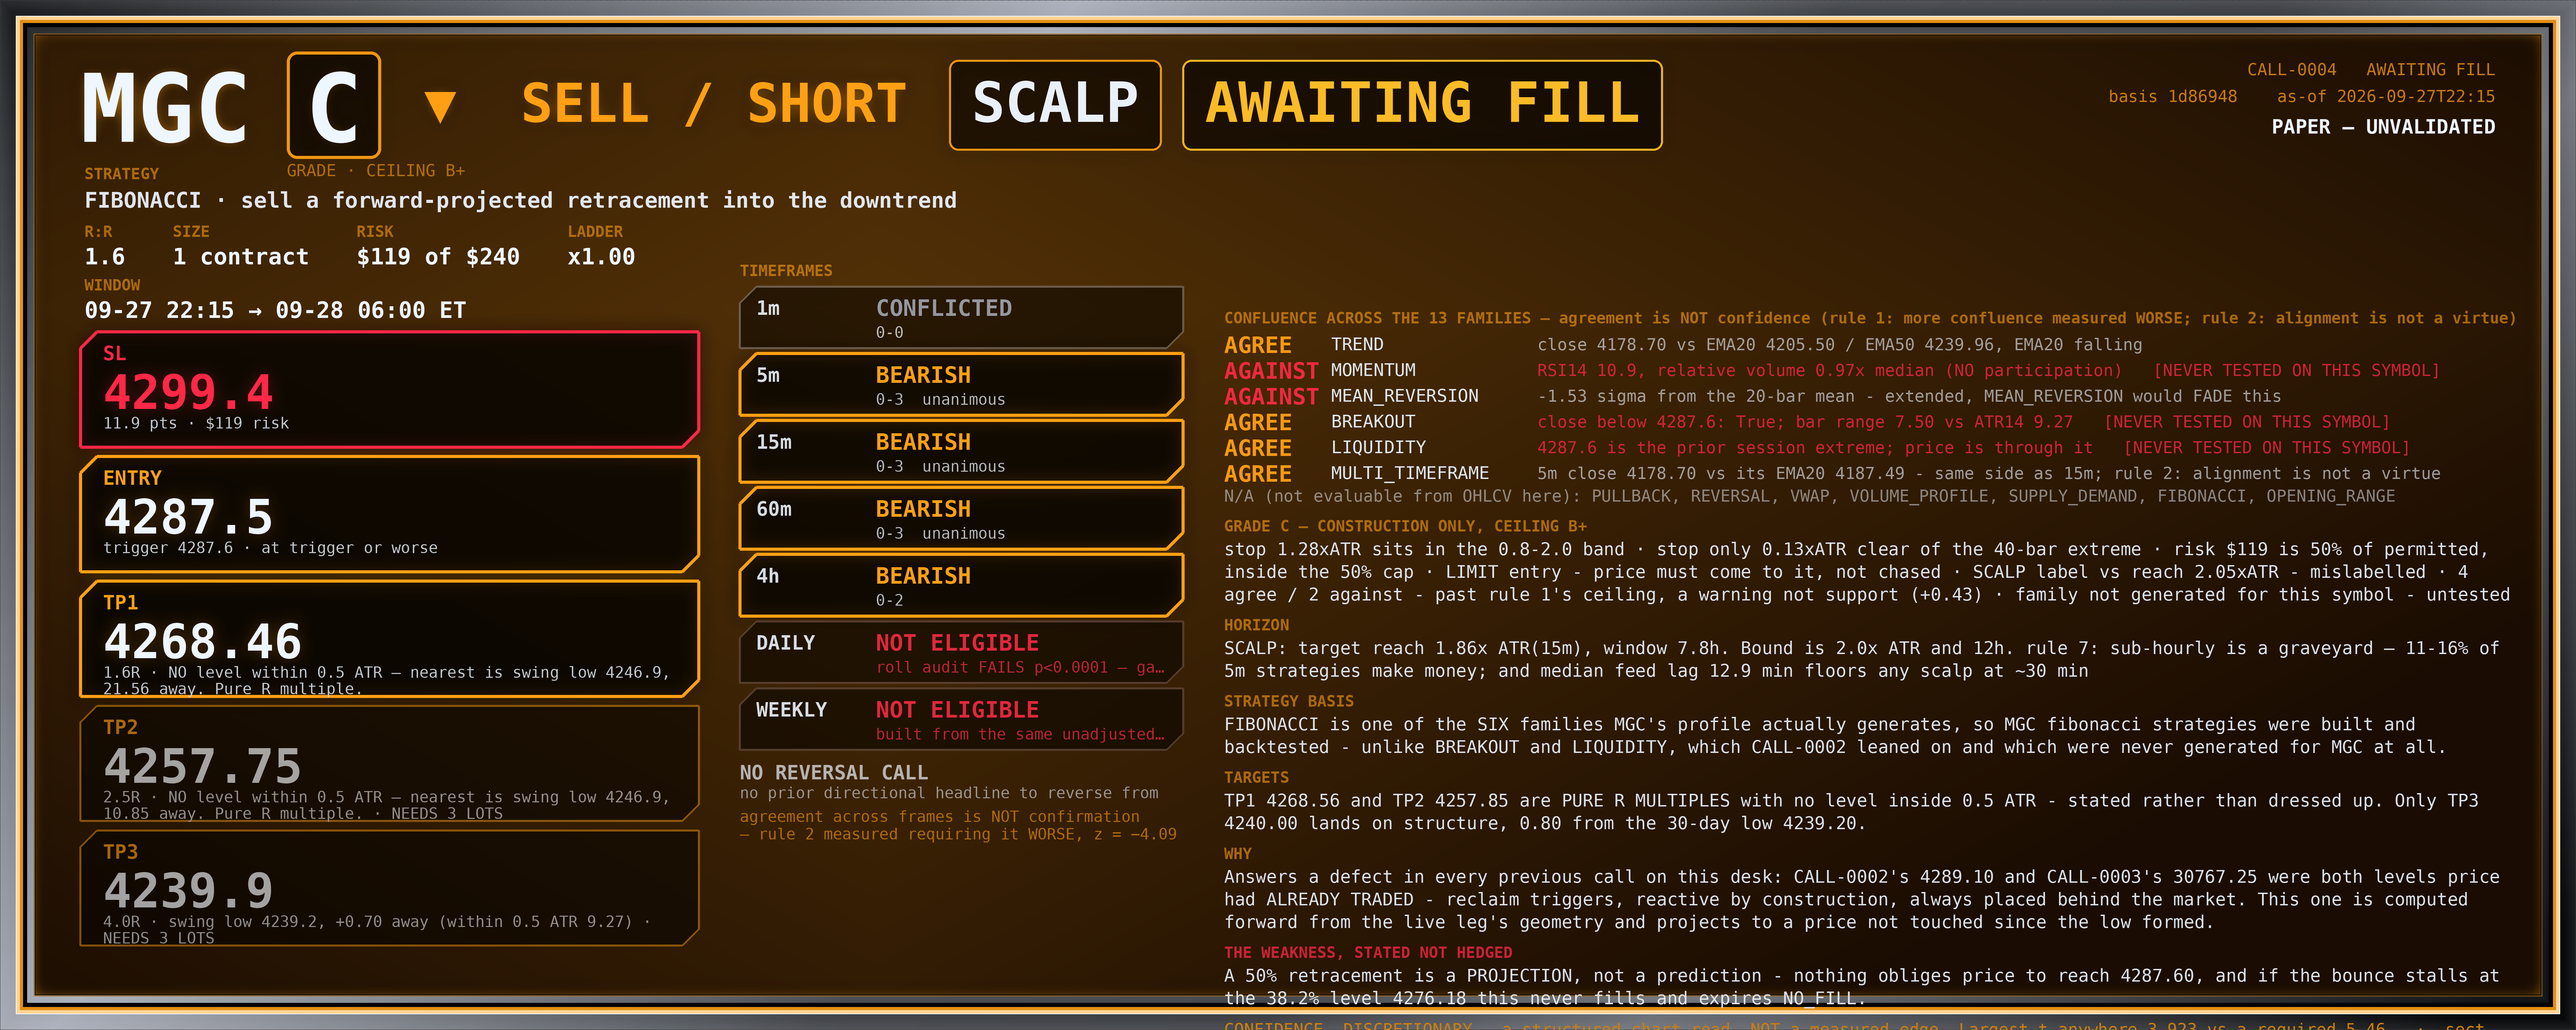
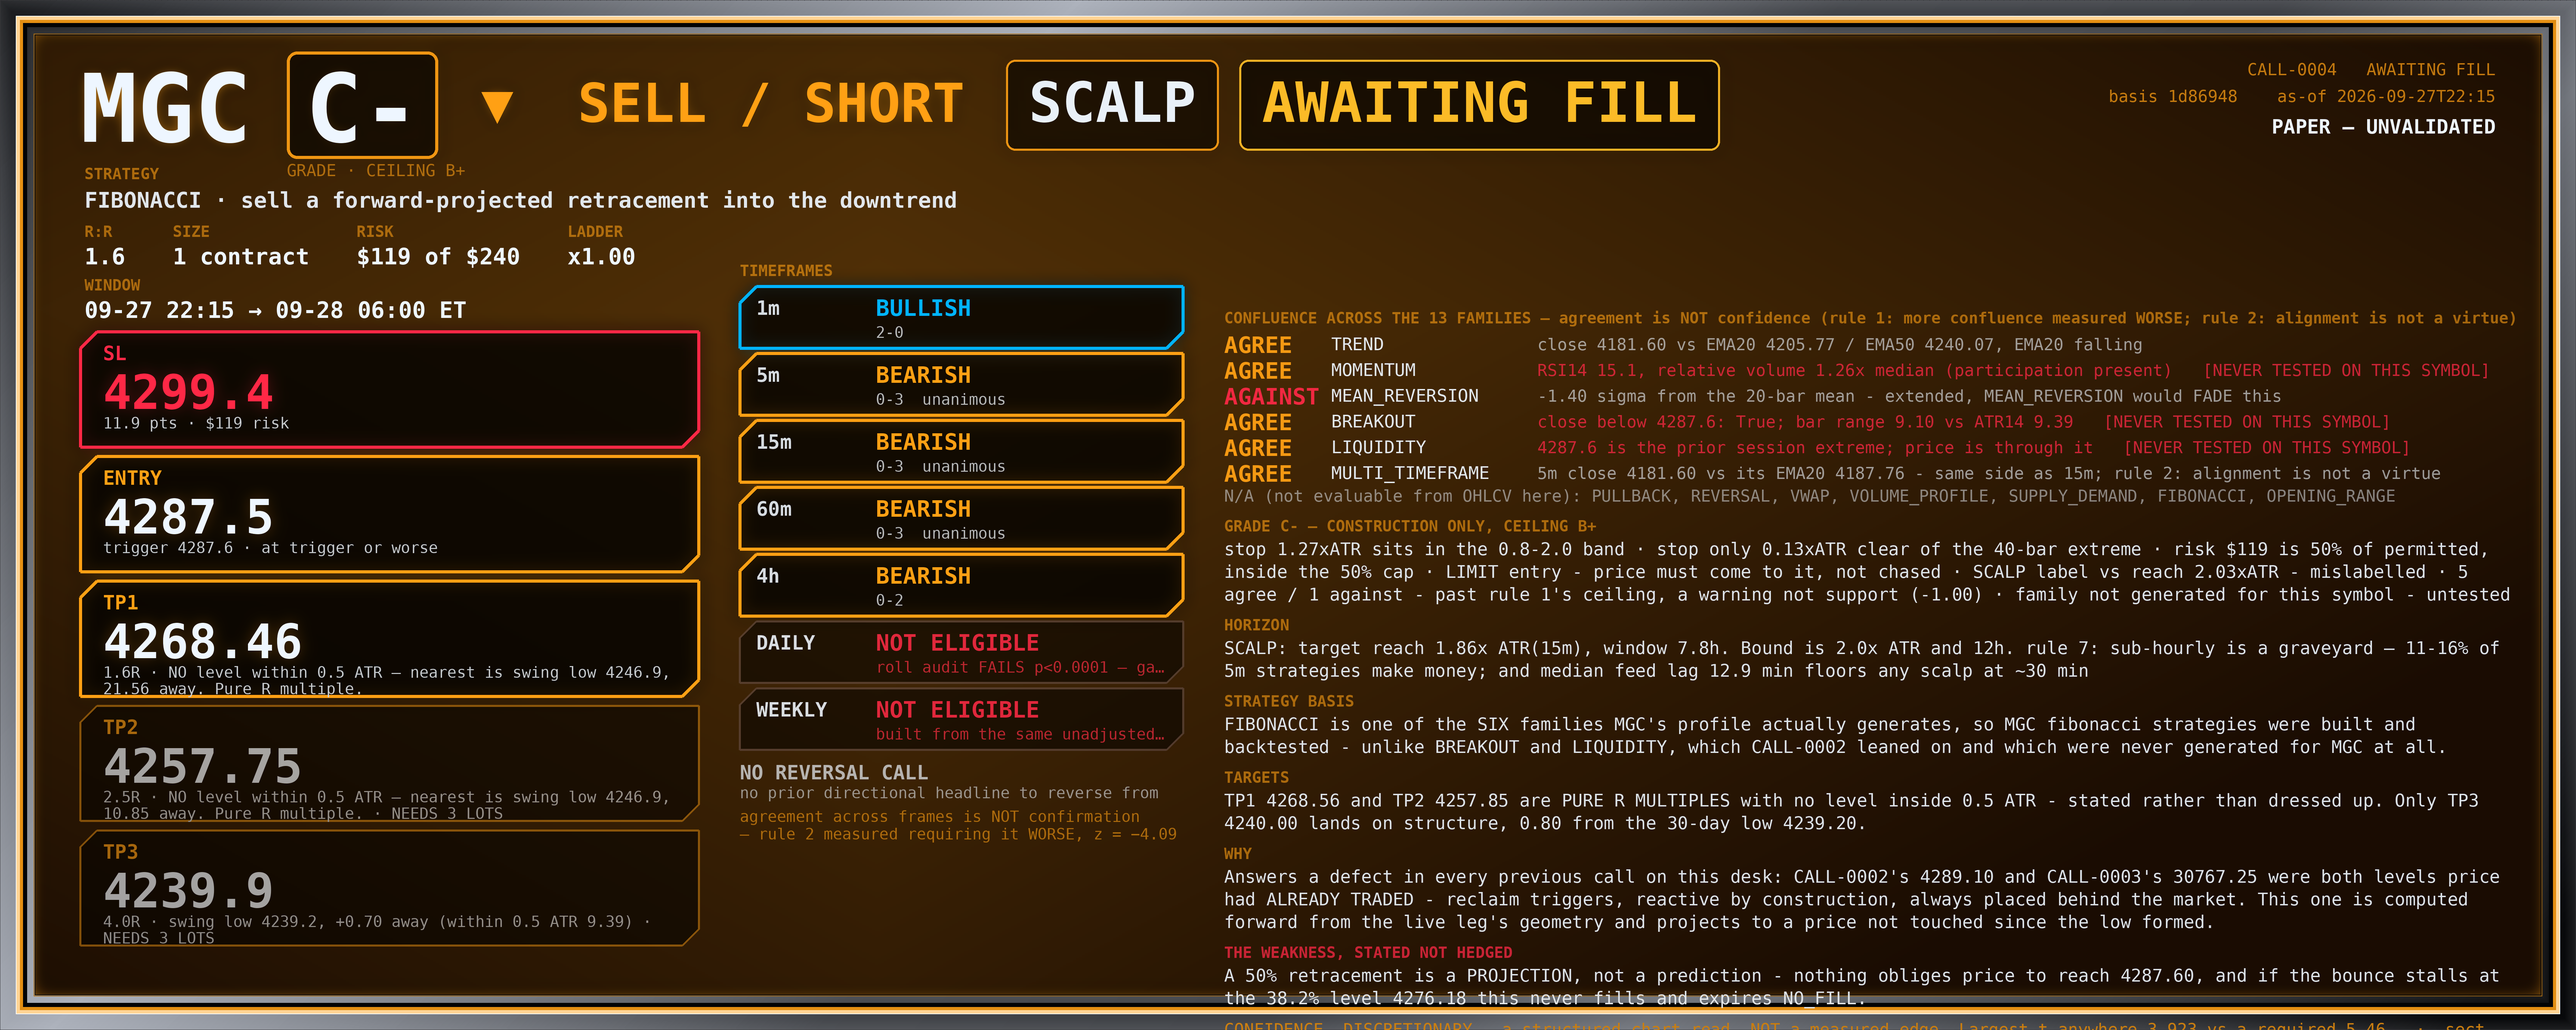
CALL desk: N57 - the seven-frame table mixes frames 10 minutes to 3.2 DAYS stale
Did N32's deferred per-frame lag measurement on this full check. From
feed_lag.jsonl at 08:54:27Z, identical on both symbols: 1m 10m behind, 5m 14m,
15m 24m, 60m 114m (newest bar 03:00), 4h 294m, daily 4614m - the daily frame's
newest bar is 2026-09-25, three days before the tape.

So the "daily BULL 3-0 unanimous" row I printed roughly a dozen times tonight is
a Friday-close read, and "60m BEAR 0-3 unanimous", which I leaned on all night as
the settled trustworthy frame, does not contain the last two hours - the entire
window in which MGC fell from 4188.90 to 4174.30.

CALLOUT.md warns about exactly this twice and I read both tonight. I honoured it
for the 5m close and violated it for four of seven rows in the same table,
because fetch.py returns six frames in one call and I treated one call as one
moment.

No conclusion flips - N44/N51/N52/N56 rested on the 15m range, rule 2 and
pre-registration integrity, none of which used those rows. But N56's "both
symbols aligned bearish on every intraday frame" was partly built on a 60m row
that had not seen the relevant bars; it should have read "on 1m, 5m and 15m, with
60m not yet current."

Fix from now: every frame row carries its lag and a stale row cannot corroborate.
Deferred as code: fetch.py logging per-frame lag to vendor_events (N38), and
regime.py refusing to label a frame whose lag exceeds a multiple of its bar
length instead of printing a confident BULL/BEAR from stale bars.
[…]

diff --git a/workspace/paper/CALL/NOTES.md b/workspace/paper/CALL/NOTES.md
@@ -2893,3 +2893,104 @@ all night.
 No new call. MNQ at the exact low is the most extended point of the entire move and is the single
 worst place to sell it; the MGC retracement idea remains blocked by N52 until CALL-0004 resolves on
 the 06:00 ET bar. Neither reason has changed in five minutes, and neither should be expected to.
+
+## N57 — THE SEVEN-FRAME TABLE IS NOT SEVEN OBSERVATIONS OF THE SAME MOMENT. Its frames range from 10 minutes stale to 3.2 DAYS stale, and I have shown them side by side all night as if they were parallel
+
+N32 deferred "per-frame lag in the seven-frame table" to a full check. This is that check, and the
+numbers are much worse than the deferral assumed. Read from `feed_lag.jsonl`, latest fetch
+`2026-09-28T08:54:27Z`, identical on both symbols:
+
+| frame | newest real bar | lag |
+|---|---|---|
+| 1m | 04:44 | **10 min** |
+| 5m | 04:40 | **14 min** |
+| 15m | 04:30 | **24 min** |
+| 60m | **03:00** | **114 min** |
+| 4h (240m) | 00:00 | **294 min** |
+| daily (1440m) | **00:00, 2026-09-25** | **4,614 min = 3.2 DAYS** |
+
+So every check tonight, the row I printed as `daily BULL 3-0 unanimous` was computed from a series
+whose newest bar is **Friday 2026-09-25** — before the weekend, three days before the tape I was
+reporting on. And `60m BEAR 0-3 unanimous`, which I have been leaning on all night as "the settled
+frame that has not moved," **does not contain the last two hours** — which is the entire window in
+which MGC fell from 4188.90 to 4174.30. The 60m frame has not yet seen the move I have been
+describing.
+
+CALLOUT.md warns about exactly this in two places and I read both, twice, tonight: *"never state a
+level as current unless you fetched it in this turn"*, and the `as-of` card field, *"the timestamp of
+the newest bar you actually hold."* I honoured those for the 5m close and violated them for four of
+the seven rows in the same table, because `fetch.py` returns all six frames in one call and I treated
+one call as one moment. It is not. `FRAMES` requests 60m over 30 days, 240m over 60, 1440m over 365,
+and the vendor's per-interval behaviour differs; a frame silently ending early is CALLOUT.md's
+documented "empty frame with no error" failure in a partial form.
+
+**This does not flip any conclusion I reached, and I want to be exact about that rather than
+overclaim a retraction.** The declines at N44, N51, N52 and N56 rested on MGC's location inside its
+40-bar 15m range, on rule 2, and on N52's pre-registration argument — none of which used the 60m,
+4h or daily rows. So no call changes. What changes is that a table I have put in front of the owner
+roughly a dozen times was misleading in a way he had no way to detect, and the two rows I described
+as the stable, trustworthy ones (15m and 60m) are not the same kind of object: 15m is 24 minutes
+behind, 60m is nearly two hours behind.
+
+### The fix, and what I am doing about it right now
+
+From this check the seven-frame table **carries each row's lag**, and any row staler than roughly two
+of its own bar lengths is marked. A frame whose newest bar predates the move under discussion cannot
+corroborate a read of that move and must not be counted in any confluence statement — which, note,
+also means the "both symbols aligned bearish on every intraday frame" line from N56 was partly built
+on a 60m row that had not seen the relevant bars. That sentence should have read "on 1m, 5m and 15m,
+with 60m not yet current."
+
+Deferred, because it is a code change and not a reporting change: `fetch.py` should record per-frame
+lag into `vendor_events` (N38's item) and `regime.py` should refuse to emit a frame whose lag exceeds
+a stated multiple of its bar length rather than printing a confident BULL/BEAR label from stale bars.
+Until that exists the discipline is manual, which is exactly how this went unnoticed for six hours.
+
+This is the ninth self-correction tonight, and unlike the others it is not a slip in one sentence —
+it is a defect in the standard artefact this desk produces every five minutes.
+
+## N58 — full-check ledger at 04:54 ET
+
+| quantity | value |
+|---|---|
+| journal entries | 14 |
+| callouts with a resolved outcome | **1** |
+| closed trades | **0** |
+| wins / losses | 0 / 0 |
+| win rate | **undefined — no closed trade** |
+| payoff | **undefined** (rule 3 forbids one without the other; here neither exists) |
+| expectancy in R | **undefined**, n = 0 |
+| the one resolution | CALL-0003, `NO_FILL`, expired untriggered, $0.00, **0.0R** |
+| NO TRADE entries | 5, of which **2** carry `declined_despite_qualifying: true` |
+| equity | **$50,000.00** |
+| peak equity | $50,000.00 |
+| drawdown | **$0.00** |
+| distance to the $2,800 absorbing state | **$2,800.00**, the full width |
+| permitted risk at $0 drawdown | $240, ladder ×1.0, 50% discretionary cap = $120 |
+| ambiguous bars | 0 encountered by resolve.py this session |
+
+Rule 3 compliance, stated rather than assumed: I am not quoting a win rate because there is no
+closed trade to compute one from, and a rate over zero trades would be a number without a payoff to
+sit beside. One plan has resolved all session and it resolved as a non-fill at exactly 0.0R.
+
+Three plans remain PENDING: CALL-0001 (MNQ LONG, direction wrong by 318.25), CALL-0002 (inert,
+defective `created_bar_ts`, never evaluated — N30), CALL-0004 (MGC SHORT, direction right with target
+distance covered, trigger 39.30 away, expiring on the 06:00 ET bar).
+
+Cadence verified by listing rather than by memory, per N45: `CronList` shows `33ba414e` present. No
+`send_later` chain armed, deliberately, so the owner is not double-sent.
+
+## N59 — MGC's 04:40 5m close was revised +2.90 with zero new bars, and the 5m lag stretched to 14.5m
+
+The 08:54Z fetch returned `new=0 revised=1` on both symbols' 5m frames: no bar advanced, one existing
+bar changed. MGC's `04:40` close went 4178.70 -> 4181.60, MNQ's 30595.00 -> 30588.50. The 5m lag rose
+from 11.0m to 14.5m across three minutes of wall clock, i.e. the feed did not advance at all while
+time did.
+
+MGC's 1m frame consequently reads **BULLISH 2-0** at 04:54, having been CONFLICTED 0-0 three minutes
+earlier and unanimous BEARISH 0-3 thirteen minutes before that. That is the sixth 1m state change
+tonight and it happened on a fetch that delivered no new 5m bar.
+
+Nothing here is actionable; it is recorded because "the feed advanced" and "I fetched" are different
+events, and a check that fetches successfully can still hold strictly older information than the
+minute suggests.
